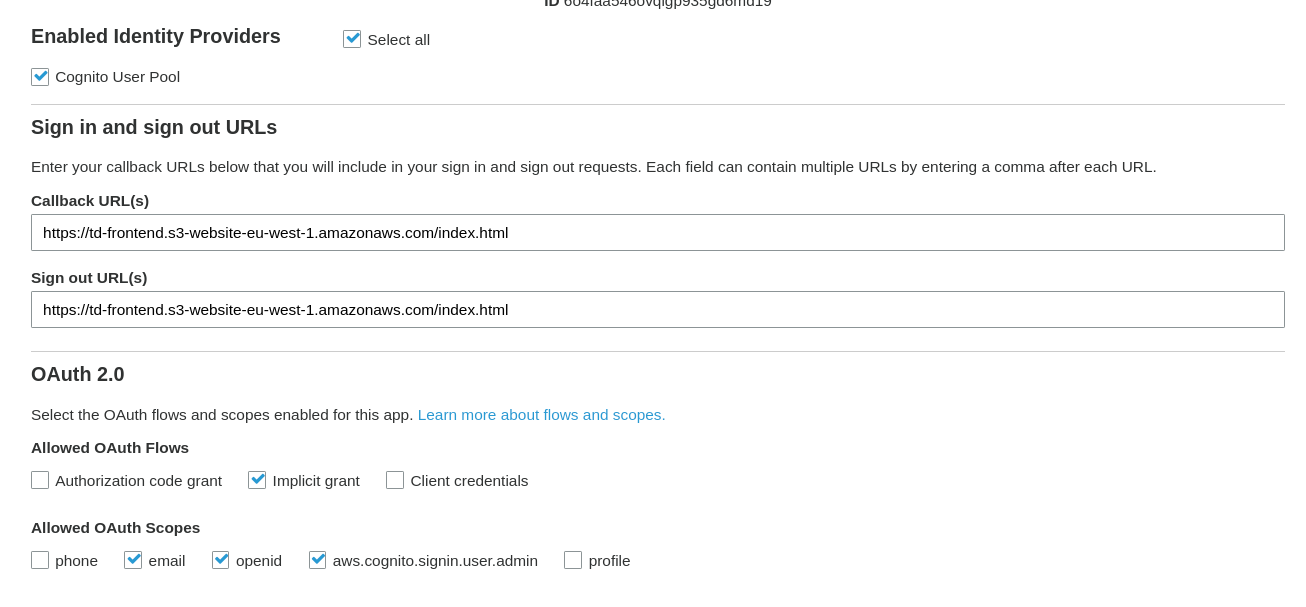
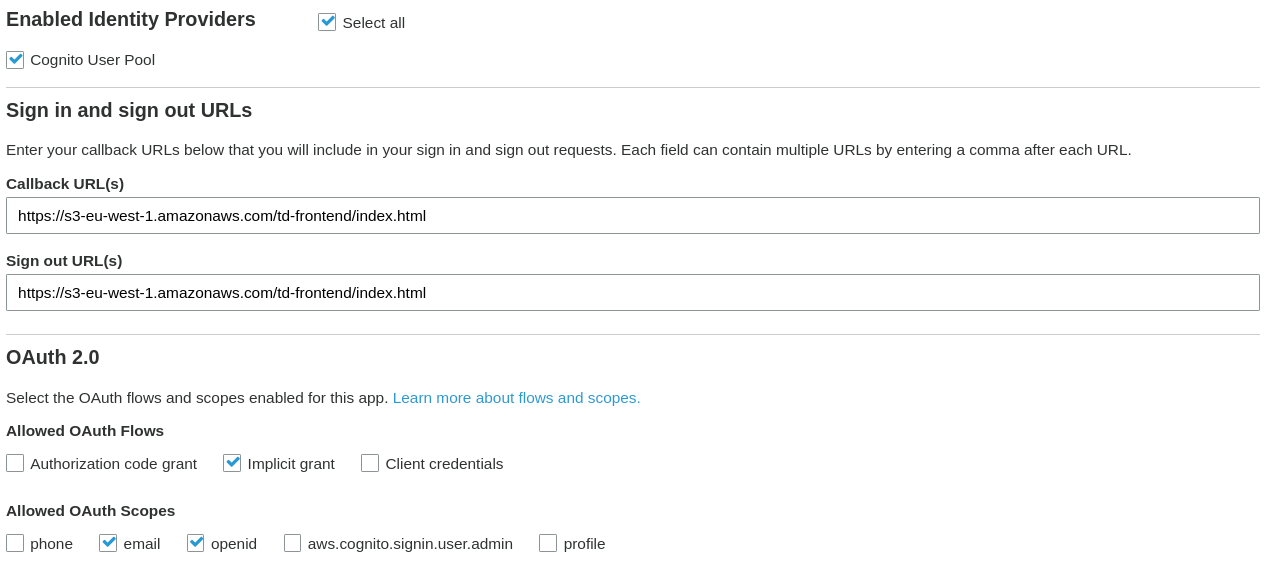
redirect fixes, cloudfront distribution

diff --git a/TodoList/Frontend/src/auth.js b/TodoList/Frontend/src/auth.js
@@ -35,8 +35,8 @@ function bindLinks(){
         const config = Auth.configure()
         const {domain,redirectSignIn,responseType} = config.oauth
         const clientId = config.userPoolWebClientId
-        const url = 'https://' + domain + '/login?redirect_uri=' +
-            redirectSignIn + '&response_type=' + responseType + '&client_id=' + clientId
+        const url = 'https://' + domain + '/login?response_type=' + responseType + '&client_id=' + clientId
+        + '&redirect_uri=' + redirectSignIn
 
         window.location.assign(url)
     })

diff --git a/TodoList/Frontend/src/index.js b/TodoList/Frontend/src/index.js
@@ -10,8 +10,8 @@ import {Amplify} from "aws-amplify"
 const oauth = {
     domain: 'td-frontend.auth.eu-west-1.amazoncognito.com',
     scope: ['email'],
-    redirectSignIn: `https://td-frontend.s3-website-eu-west-1.amazonaws.com/index.html`,
-    redirectSignOut: `https://td-frontend.s3-website-eu-west-1.amazonaws.com/index.html`,
+    redirectSignIn: 'https://s3-eu-west-1.amazonaws.com/td-frontend/index.html',
+    redirectSignOut: 'https://s3-eu-west-1.amazonaws.com/td-frontend/index.html',
     responseType: 'token'
 }
 

diff --git a/TodoList/Frontend/src/todo.js b/TodoList/Frontend/src/todo.js
@@ -24,6 +24,7 @@ function activate(authObj) {
 
 function list(cb) {
     auth.session().then(session => {
+        console.log(session)
         $.ajax(API_URL, {
             type: 'GET',
             headers: {

diff --git a/TodoList/Frontend/README.md b/TodoList/Frontend/README.md
@@ -26,5 +26,5 @@ aws s3 sync dist s3://<site-bucket-id>
 ## Access URLs
 
 1. Local - http://localhost:9024
-2. AWS - http://<site-bucket-id>.s3-website-eu-west-1.amazonaws.com/
+2. AWS - https://s3-eu-west-1.amazonaws.com/td-frontend/index.html
 
